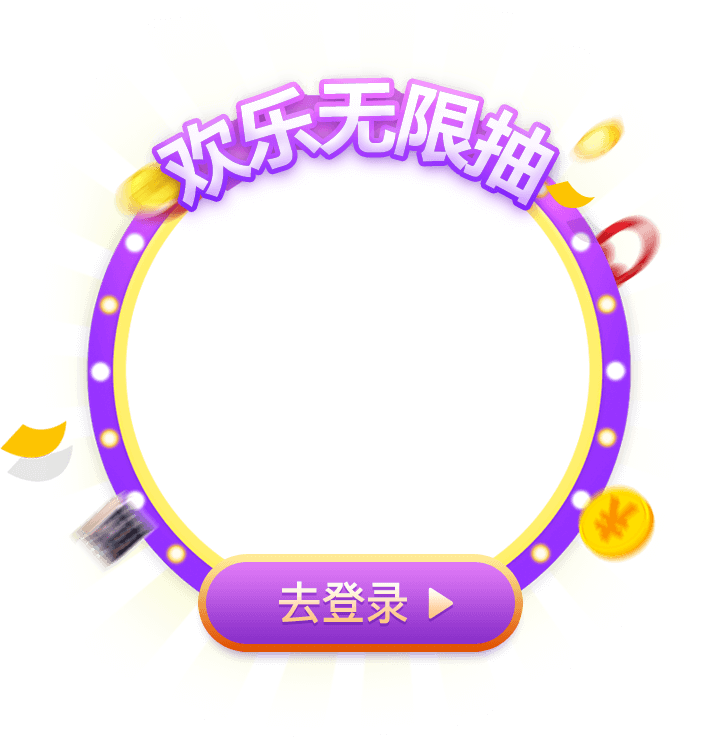
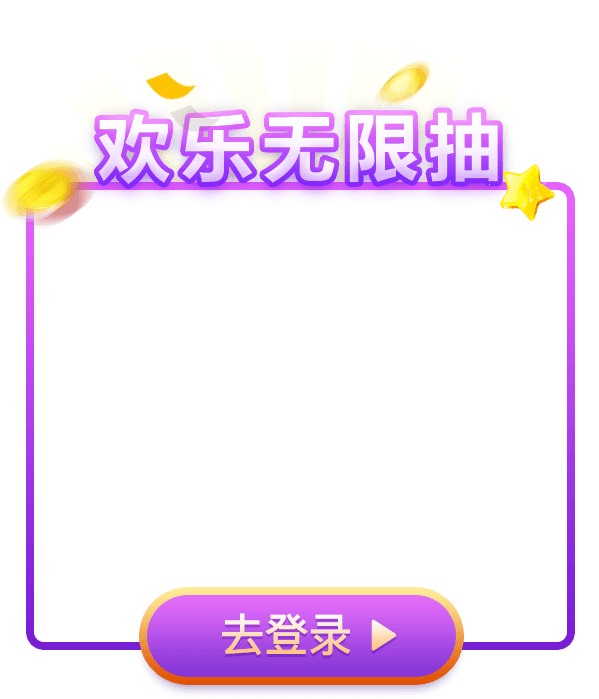
update change on 20190809

diff --git a/public/client/js/redeem.js b/public/client/js/redeem.js
@@ -2,8 +2,15 @@ var page = 1;
 var page_count = 1;
 var reload_pass = '￥EXpZYiJPcpg￥';
 var this_vip_app = false;
+var txt_coin = '元';
 
 $(document).ready(function () {
+
+    this_vip_app = $('#this_vip_app').val();
+
+    if (this_vip_app == true) {
+        txt_coin = "金币";
+    }
 
     reload_pass = $('#reload_pass').val();
 
@@ -176,11 +183,11 @@ function getProductList(token) {
                                                             // '<div class="icon-coin-wrapper modal-icon">' +
                                                             //     '<div class="icon-coin"></div>' +
                                                             // '</div>' +
-                                                            '<div class="wabao-price">'+ item.min_point +' 元</div>' +
+                                                            '<div class="wabao-price">'+ item.min_point +' ' + txt_coin + '</div>' +
                                                     '</div>' +
 
                                                     '<div class="modal-card">' +
-                                                        '<div class="wabao-balance">您当前拥有 '+ getNumeric(data.current_point) +' 元</div>' +
+                                                        '<div class="wabao-balance">您当前拥有 '+ getNumeric(data.current_point) +' ' + txt_coin + '</div>' +
                                                     '</div>' +
 
                                                     '<div id="error-'+ item.id + '" class="error"></div>';
@@ -215,7 +222,7 @@ function getProductList(token) {
 
                 $.each(packages, function(i, item) {
                     $('.openeditmodel_p' + i).click(function() {
-                        if(wechat_status > 0){
+                        if(wechat_status > 0 && this_vip_app != true){
                             $('#wechat-verification-modal').modal('show');
                         } else {
                             $('#viewvouchermode_p' + i).modal('show');
@@ -229,7 +236,7 @@ function getProductList(token) {
 
                 $.each(records, function(i, item) {
                     $('.openeditmodel' + i).click(function() {
-                        if(wechat_status > 0){
+                        if(wechat_status > 0 && this_vip_app != true){
                             $('#wechat-verification-modal').modal('show');
                         } else {
                             $('#viewvouchermode' + i).modal('show');
@@ -324,7 +331,6 @@ function populateHistoryData(records, token) {
     var htmlmodel = '';
     var counter = (current_page - 1) * limit;
     var str_date = '';
-    this_vip_app = $('#this_vip_app').val();
 
     if(page_count != page && current_page == page){
         return false;
@@ -494,7 +500,7 @@ function populateHistoryData(records, token) {
                                 '<div class="product-img"><img src="'+item.picurl+'" alt="'+item.product_name+'"></div>' +
                                 '<div class="product-detail">' +
                                     '<div class="product-name">'+item.product_name+'</div>' +
-                                    '<div class="product-desc">'+item.used_point+' 金币</div>' +
+                                    '<div class="product-desc">'+item.used_point+' ' + txt_coin + '</div>' +
                                 '</div>' +
                                 '<div class="redeem-result">' +
                                     '<div class="redeem-quantity">X'+ item.quantity +'</div>' +
@@ -837,11 +843,11 @@ function getNewProductList(softpinCount, token) {
                                                             // '<div class="icon-coin-wrapper modal-icon">' +
                                                             //     '<div class="icon-coin"></div>' +
                                                             // '</div>' +
-                                                            '<div class="wabao-price">'+ item.point_to_redeem +' 元</div>' +
+                                                            '<div class="wabao-price">'+ item.point_to_redeem +' ' + txt_coin + '</div>' +
                                                     '</div>' +
 
                                                     '<div class="modal-card">' +
-                                                        '<div class="wabao-balance">您当前拥有 '+ getNumeric(current_point) +' 元</div>' +
+                                                        '<div class="wabao-balance">您当前拥有 '+ getNumeric(current_point) +' ' + txt_coin + '</div>' +
                                                     '</div>' +
 
                                                     '<div id="error-'+ item.id + '" class="error"></div>';

diff --git a/public/client/css/vip-node.css b/public/client/css/vip-node.css
@@ -434,31 +434,46 @@
 
 .nologin-bg {
 	background: url(/client/images/nologin-bg.png) no-repeat;
-    background-size: cover;
+    background-size: contain;
     position: relative;
-    padding: 0;
-    margin: -4.5rem 0.2rem 0 0;
-    line-height: 0.45rem;
+    padding: 2.2rem 0.6rem 0 0.6rem;
 }
 
 #modal-no-login .instructions1 {
     color: #999;
-    padding: 0 1.5rem 0 1.5rem;
-    font-size: 0.24rem;
+    font-size: 0.28rem;
     text-align: center;
-    margin: 2.3rem 0 0.2rem 0.05rem;
+    line-height: 0.45rem;
 }
 
-#modal-no-login .instructions2 {     color: #a659fd;     padding: 0 0 0 2rem;
-width: 6rem;     font-size: 0.26rem; }
+#modal-no-login .instructions2 {
+	color: #a659fd;
+    padding: 0 0.2rem 0 0.2rem;
+    font-size: 0.3rem;
+    line-height: 0.45rem;
+    text-align: left;
+}
 
 .btn-login {
 	background: transparent;
-    height: 1rem;
-    width: 0.5rem;
-    margin: 0.2rem 0.8rem 0.5rem 0.8rem;
     cursor: pointer;
     text-align: center;
     padding: 2rem 0 0 0;
 }
+
+.cust-star {
+    font-size: 0.25rem;
+    padding: 0.08rem 0.08rem 0 0;
+}
+
+.instruction-top-padding {
+	margin-top:0.15rem;
+}
+
+.modal.in .modal-dialog {
+    margin: -2rem 0 0 0;
+}
+
+#modal-no-login {
+	background-color: rgba(0, 0, 0, 0.5) !important;
 }

diff --git a/public/client/css/faq.css b/public/client/css/faq.css
@@ -56,16 +56,20 @@
 
     .more-less {
         color: #cccccc;
+        padding: 0.2rem 0 0.2rem 0;
     }
 
     .faq-title {
         display: inline-block;
         border-left: 0.06rem solid #48affa;
-        padding-left: 0.1rem;
-        font-weight: 600;
+        padding: 0.2rem;
     }
 
 /* ----- v CAN BE DELETED v ----- */
 body {
     background-color: #f2f2f2;
+}
+
+.navbar-default .navbar-brand {
+    width: 100% !important;
 }

diff --git a/resources/views/staradmin/client/vip-node.blade.php b/resources/views/staradmin/client/vip-node.blade.php
@@ -60,7 +60,7 @@
 					<!-- <a href="/arcade"> -->
 						<!--div class="btn-vip"></div-->
 						<!-- <div class="btn-rules-vip">返回普通场</div> -->
-						<div class="btn-rules-vip"><img src="{{ asset('/client/images/wheel/money.png') }}" />必中玩法</div>
+						<div class="btn-rules-vip"><img src="{{ asset('/client/images/wheel/money.png') }}" />玩法介绍</div>
 					<!-- </a> -->
 					<div style="clear:both"></div>
 				</div>
@@ -1025,15 +1025,18 @@
 
 <!-- haven't login start modal -->
 <div class="modal fade col-md-12" id="modal-no-login" tabindex="-1" role="dialog" aria-labelledby="viewvouchermodellabel" aria-hidden="true">
-	<div class="modal-dialog modal-lg nologin-bg" role="document">
-		<div class="instructions1">独创的自助式抽奖，<br>赚积分换购超值奖品，本专场以下特点</div>
-		<div class="instructions2">1. 无抽奖上限，无限任你抽。</div>
-		<div class="instructions2">2. 大量超值奖品，闪电换购。</div>
-		<div class="instructions2">3. 100%公平机制，绝无作弊。</div>
-
-		<a href="/nlogin">
-			<div class="btn-login"></div>
-		</a>
+	<div class="modal-dialog modal-lg" role="document">
+		<div class="instructions1 nologin-bg">
+			<p>
+			独创的自助式抽奖，<br>赚积分换购超值奖品，本专场特点
+			</p>
+			<div class="instructions2 instruction-top-padding"><span class="glyphicon glyphicon-star cust-star"></span>无抽奖上限，无限任你抽。</div>
+			<div class="instructions2"><span class="glyphicon glyphicon-star cust-star"></span>大量超值奖品，闪电换购。</div>
+			<div class="instructions2"><span class="glyphicon glyphicon-star cust-star"></span>100%公平机制，绝无作弊。</div>
+			<a href="/nlogin">
+				<div class="btn-login"></div>
+			</a>
+		</div>		
 	</div>
 </div>
 <!-- haven't login modal Ends-->

diff --git a/resources/views/staradmin/client/redeem.blade.php b/resources/views/staradmin/client/redeem.blade.php
@@ -53,11 +53,13 @@
 						<a href="/summary">明细</a>
 					</div>
 				</div>
-				<div class="label-coin"><span class="wabao-coin"></span>元</div>	
-				@if(!env('THISVIPAPP','false'))			
+				@if(!env('THISVIPAPP','false'))
+					<div class="label-coin"><span class="wabao-coin"></span>元</div>			
 					<div class="label-desc">
 						<a href="/share">邀请好友送场次，抽红包，去邀请 ></a>
 					</div>
+				@else
+					<div class="label-coin"><span class="wabao-coin"></span>金币</div>
 				@endif
 			</div>
 		</div>

diff --git a/resources/views/staradmin/client/faq.blade.php b/resources/views/staradmin/client/faq.blade.php
@@ -30,7 +30,7 @@
             </div>
             <div id="collapse{{ $faq->id }}" class="panel-collapse collapse" role="tabpanel" aria-labelledby="heading-{{ $faq->id }}">
                 <div class="panel-body">
-                    {{ $faq->content }}
+                    {!! $faq->content !!}
                 </div>
             </div>
         </div>
